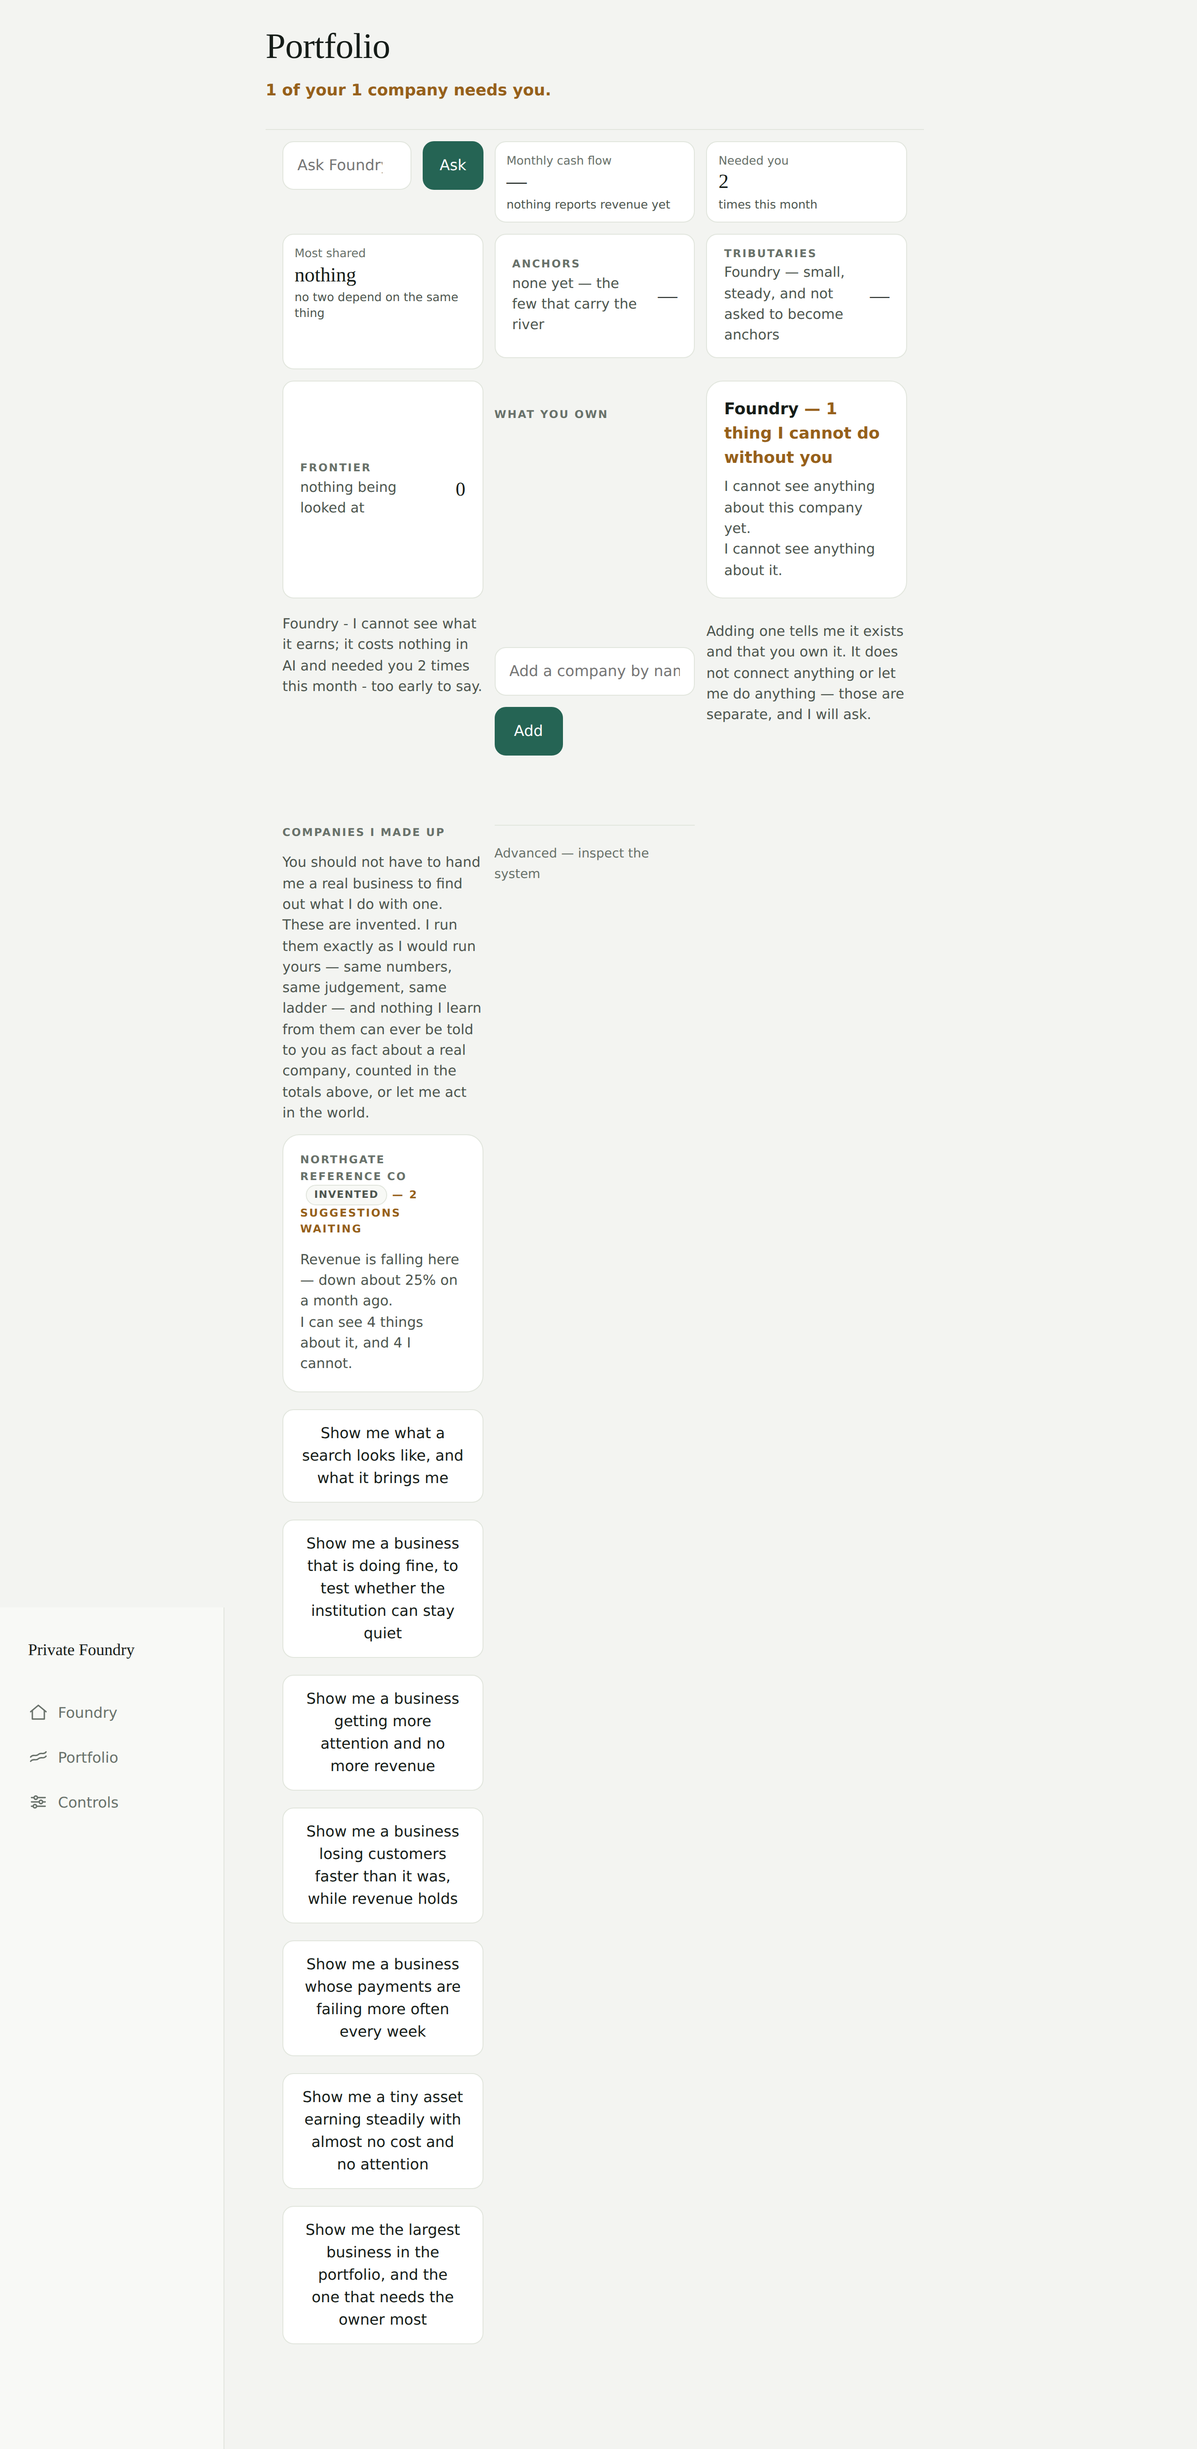
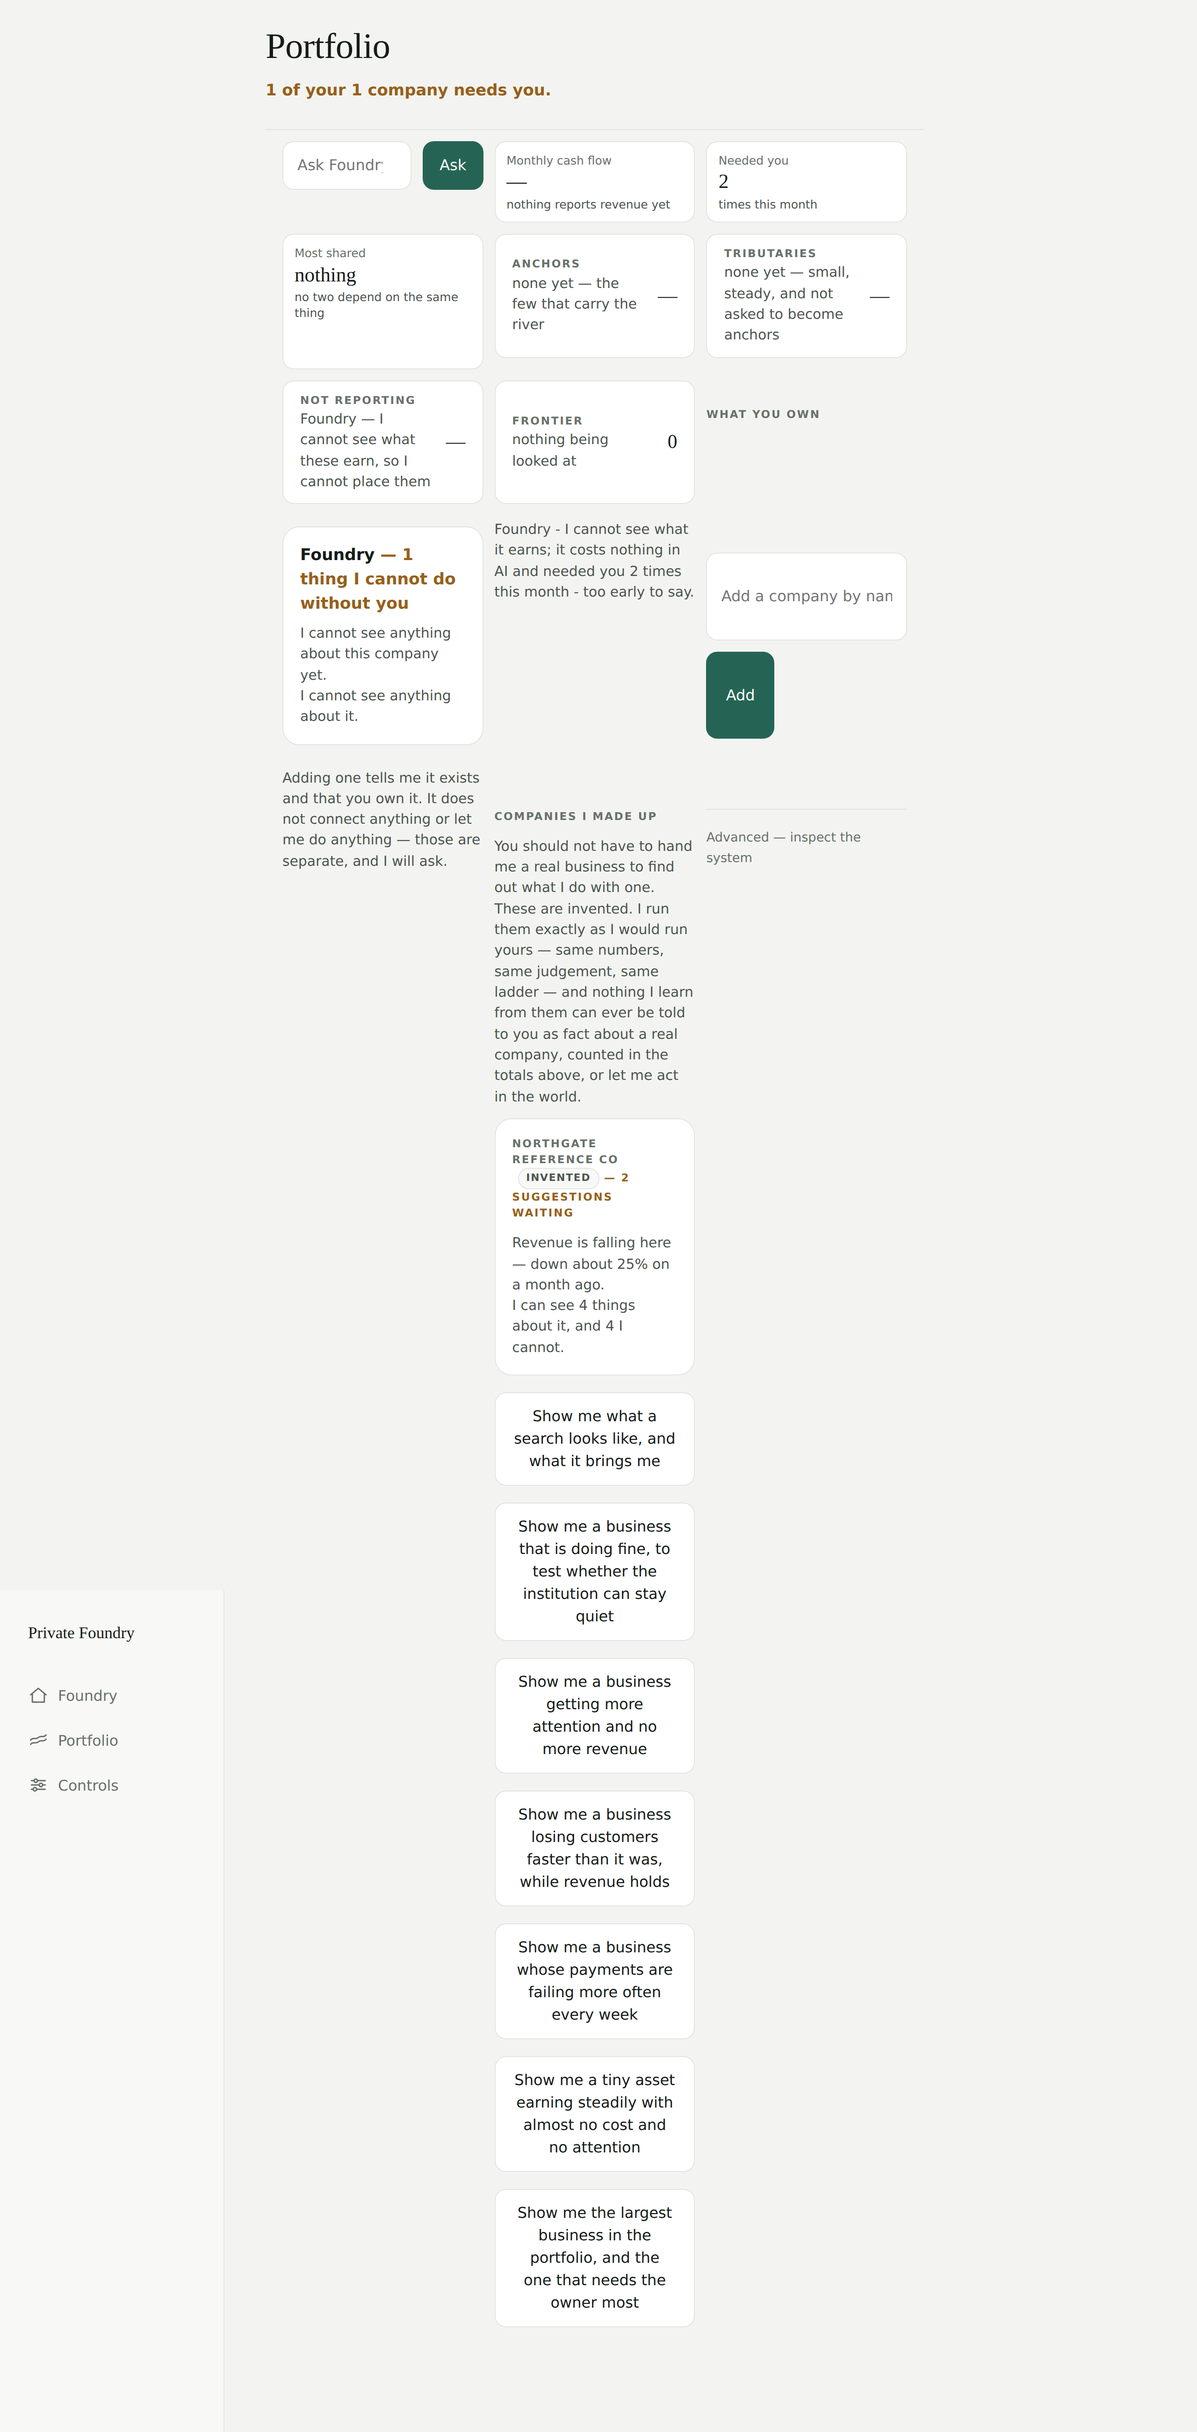
The obvious question, and saying a thing twice [deploy-private]
"HOW ARE THINGS?" ANSWERED "I DON'T KNOW YET." The bar at the bottom of every
page says "Ask Foundry anything", and the first thing anybody types into a box
like that is how things are. The phrase matched the rule for asking about ONE
company, which found none named and gave up — while the rule written for exactly
this question sat three lines below and never ran.

Moving it up broke something else immediately, which is the useful part: his own
mandate says "make my portfolio more resilient", so it contains the word the
portfolio rule matches on, and reading it as a question would have answered him
instead of starting the search he asked for. An instruction to go looking is now
read before any question about what he owns.

NAMING THE SAME COMPANY TWICE MADE TWO COMPANIES. A phone on a slow connection
double-submits, and so does a reload after a submit. He would have ended up with
two identical companies, each holding half of whatever Foundry later learned
about the one business. The same name is the same company now, and he lands on
it either way.

A COMPANY FOUNDRY CANNOT SEE WAS FILED AS A SMALL ONE. The river partitioned on
"revenue or zero", so "I cannot see what this earns" became zero and landed in
Tributaries — which the page describes as small, steady, and not asked to become
anchors. His largest business, on the day it stops reporting, was quietly
recategorised as a minor one. Not knowing is its own answer and has its own
place in the river now.
[…]

diff --git a/src/routes/dashboard/foundry-shell.ts b/src/routes/dashboard/foundry-shell.ts
@@ -848,6 +848,17 @@ const page = (title: string, body: HtmlEscapedString | Promise<HtmlEscapedString
 <meta charset="utf-8" />
 <meta name="viewport" content="width=device-width, initial-scale=1, viewport-fit=cover" />
 <title>${title}</title>
+<!-- ON THE HOME SCREEN, IT IS HIS PRODUCT. The owner's surface was the one
+     place not wired to the installable app: no manifest, no icon, no theme
+     colour — so adding it to a phone gave a browser chrome bar in the wrong
+     colour and a generic icon, while the manifest it would have used described
+     the commercial product and its dark palette. -->
+<link rel="manifest" href="/manifest.json" />
+<link rel="apple-touch-icon" href="/static/icon-192.png" />
+<meta name="apple-mobile-web-app-capable" content="yes" />
+<meta name="apple-mobile-web-app-title" content="Foundry" />
+<meta name="theme-color" content="#F3F4F1" media="(prefers-color-scheme: light)" />
+<meta name="theme-color" content="#0D1310" media="(prefers-color-scheme: dark)" />
 <style>
   /* Two families and one scale: a serif for the sentences that matter, the
      system sans for everything else. Colour carries meaning or it is absent:
@@ -1617,6 +1628,22 @@ function matchQuestion(text: string): string {
   if (/show me the numbers|the numbers|how much|revenue|mrr|metrics|customers|churn/.test(t)) {
     return 'numbers';
   }
+  // AN INSTRUCTION TO GO LOOKING IS READ BEFORE ANY QUESTION ABOUT WHAT HE
+  // OWNS. His mandate says "make my portfolio more resilient", so it contains
+  // the word the portfolio rule matches on — and reading it as a question would
+  // answer him instead of starting the search he asked for.
+  if (/venture|originate|new business|another business|new company|another company|a new saas|micro-?saas|income stream|revenue stream|the river/.test(t)
+    || /stop looking|show me another option|try harder to disprove|higher[- ]ticket|paid acquisition/.test(t)) {
+    return 'venture';
+  }
+  // THE PORTFOLIO QUESTION COMES FIRST, because "how are things?" is both the
+  // most obvious thing he could type and a phrase that matches the
+  // one-company rule below. It matched "how are", asked which company he meant,
+  // found none named, and answered "I don't know yet" — to the question the
+  // whole first screen exists to answer.
+  if (/what do i own|my companies|everything doing|how are things|across (all|my)|portfolio|deteriorat|which company/.test(t)) {
+    return 'portfolio';
+  }
   if (/how is|how are|how'?s |doing|going|healthy|health of/.test(t)) return 'howdoing';
   // CONTEXT FIRST. He is looking at something; "what does this mean" is about
   // that, and he should never have to name it again to be understood.
@@ -1634,13 +1661,6 @@ function matchQuestion(text: string): string {
   // A VENTURE SENTENCE IS NOT A QUESTION. Asking Foundry to go and look, or
   // steering a search that is running, is an instruction — it goes to the
   // mandate, where it binds after he confirms, rather than being answered.
-  if (/venture|originate|new business|another business|new company|another company|a new saas|micro-?saas|income stream|revenue stream|the river/.test(t)
-    || /stop looking|show me another option|try harder to disprove|higher[- ]ticket|paid acquisition/.test(t)) {
-    return 'venture';
-  }
-  if (/what do i own|my companies|everything doing|how are things|across (all|my)|portfolio|deteriorat|which company/.test(t)) {
-    return 'portfolio';
-  }
   if (/what.*(this|that).*(mean|about)|explain (this|that)/.test(t)) return 'this';
   if (/if i (say )?(yes|agree|approve)|what happens if/.test(t)) return 'ifyes';
   if (/what can you change|can you change|are you allowed to change/.test(t)) return 'change';
@@ -2834,6 +2854,24 @@ foundryShellRoutes.post('/foundry/companies', requireInstitutionOwner(), async (
   // fabricated stage, no agents, no competitors — the first version of this
   // product created a company as a side effect of a four-step audit funnel and
   // filled it with guesses.
+  // A DOUBLE TAP IS ONE COMPANY.
+  //
+  // This inserted unconditionally, so two submissions — which is what a phone
+  // on a slow connection produces, and what a page reload after a submit
+  // produces — gave him two identical companies, each with its own history and
+  // its own half of whatever Foundry later learned. Naming the same company
+  // twice is not a new company; it is the same sentence said twice.
+  // A company he already named is the company he meant. Only real ones are
+  // considered: naming a business of his own must never collide with one of the
+  // invented companies, whatever they happen to be called.
+  const already = (await query(
+    `SELECT id FROM products p
+      WHERE p.owner_id = ? AND lower(p.name) = lower(?) AND p.status = 'active'
+        AND p.deleted_at IS NULL AND ${realCompany('p')}
+      ORDER BY p.created_at LIMIT 1`,
+    [String(founder.id), name])).rows[0] as Record<string, unknown> | undefined;
+  if (already) return c.redirect(`/foundry/companies/${String(already.id)}?done=added`);
+
   const { nanoid } = await import('nanoid');
   const id = nanoid();
   await query(

diff --git a/tests/unit/the-most-obvious-question.test.ts b/tests/unit/the-most-obvious-question.test.ts
@@ -1,0 +1,110 @@
+process.env.TURSO_DATABASE_URL = 'file::memory:';
+process.env.ENCRYPTION_KEY = '0'.repeat(64);
+process.env.FOUNDRY_INSTANCE_POSTURE = 'private_owner';
+process.env.FOUNDRY_OWNER_EMAIL = 'owner@example.com';
+
+import { Hono } from 'hono';
+import { beforeAll, describe, expect, it } from 'vitest';
+import { runMigrations } from '../../src/db/migrate.js';
+import { query } from '../../src/db/client.js';
+
+// =============================================================================
+// THE MOST OBVIOUS QUESTION ON THE SCREEN.
+//
+// The bar at the bottom of every page says "Ask Foundry anything". The first
+// thing anybody types into a box like that is "how are things?" — and it
+// answered "I don't know yet", because the phrase matched the rule for asking
+// about ONE company, which then found no company named and gave up. The rule
+// written for exactly this question sat three lines below and never ran.
+// =============================================================================
+
+const OWNER = 'obvious_owner';
+let app: Hono;
+
+beforeAll(async () => {
+  await runMigrations();
+  await query('INSERT INTO founders (id,clerk_user_id,email,name) VALUES (?,?,?,?)',
+    [OWNER, 'clerk_obvious', 'owner@example.com', 'Thomas Norton']);
+  const { foundryShellRoutes } = await import('../../src/routes/dashboard/foundry-shell.js');
+  app = new Hono();
+  app.use('*', async (c, next) => {
+    c.set('founder' as never,
+      { id: OWNER, email: 'owner@example.com', name: 'Thomas Norton' } as never);
+    c.set('csrfToken' as never, 'test' as never);
+    await next();
+  });
+  app.route('/', foundryShellRoutes);
+  for (const name of ['Tidewater', 'Northgate']) {
+    await app.request('/foundry/companies', { method: 'POST',
+      headers: { 'content-type': 'application/x-www-form-urlencoded' },
+      body: new URLSearchParams({ name }).toString() });
+  }
+});
+
+describe('asking how things are', () => {
+  for (const asked of ['How are things?', 'how are things', 'What do I own?',
+    'How is everything doing?']) {
+    it(`"${asked}" gets an answer about the portfolio`, async () => {
+      const body = await (await app.request(
+        `/foundry?q=${encodeURIComponent(asked)}`)).text();
+      expect(body, 'it never says it does not know')
+        .not.toContain("I don't know yet");
+      // It answers about what he owns, by name.
+      expect(body).toMatch(/Tidewater|Northgate|companies/);
+    });
+  }
+
+  it('still answers about one company when he names one', async () => {
+    const body = await (await app.request(
+      '/foundry?q=How is Tidewater doing?')).text();
+    expect(body).toContain('Tidewater');
+  });
+});
+
+// =============================================================================
+// AND TWO MORE THINGS THE SAME REVIEW FOUND, BOTH ABOUT SAYING THE SAME THING
+// TWICE MEANING TWO DIFFERENT THINGS.
+// =============================================================================
+
+describe('naming the same company twice', () => {
+  it('is one company, not two', async () => {
+    // A phone on a slow connection double-submits, and a reload after a submit
+    // does it again. This inserted unconditionally, so he ended up with two
+    // identical companies each holding half of what Foundry later learned.
+    const before = (await query(
+      "SELECT COUNT(*) AS n FROM products WHERE owner_id = ? AND status = 'active'",
+      [OWNER])).rows[0] as Record<string, unknown>;
+    for (let i = 0; i < 3; i += 1) {
+      await app.request('/foundry/companies', { method: 'POST',
+        headers: { 'content-type': 'application/x-www-form-urlencoded' },
+        body: new URLSearchParams({ name: 'Tidewater' }).toString() });
+    }
+    const after = (await query(
+      "SELECT COUNT(*) AS n FROM products WHERE owner_id = ? AND status = 'active'",
+      [OWNER])).rows[0] as Record<string, unknown>;
+    expect(Number(after.n)).toBe(Number(before.n));
+  });
+
+  it('still lands him on that company', async () => {
+    const res = await app.request('/foundry/companies', { method: 'POST',
+      headers: { 'content-type': 'application/x-www-form-urlencoded' },
+      body: new URLSearchParams({ name: 'Tidewater' }).toString() });
+    expect(res.status).toBe(302);
+    expect(String(res.headers.get('location'))).toContain('/foundry/companies/');
+  });
+});
+
+describe('a company whose revenue cannot be seen', () => {
+  it('is not filed as a small one', async () => {
+    // Tributaries are described as "small, steady, and not asked to become
+    // anchors". A company that has stopped reporting is none of those things —
+    // it is a company Foundry cannot see, which is its own answer.
+    const { layersFor } = await import('../../src/services/founder/portfolio.js');
+    const { layers } = await layersFor(OWNER);
+    const tributaries = layers.find((l) => l.name === 'tributaries');
+    expect(tributaries?.companies ?? []).toHaveLength(0);
+    const unseen = layers.find((l) => l.name === 'unseen');
+    expect(unseen?.companies.length).toBeGreaterThan(0);
+    expect(unseen?.what).toContain('cannot see');
+  });
+});

diff --git a/src/public/sw.js b/src/public/sw.js
@@ -75,6 +75,37 @@ self.addEventListener('fetch', (event) => {
   if (request.mode === 'navigate') {
     event.respondWith(
       fetch(request).catch(() => {
+        // THE OWNER'S SURFACE HAS ITS OWN OFFLINE PAGE.
+        //
+        // This worker registers at the root from the commercial layout, and the
+        // owner's footer links to a page that uses that layout — so visiting it
+        // once put this worker in charge of /foundry too. Losing signal on his
+        // own product then showed him the other product's dark stylesheet and
+        // its em-dash, in a typeface and palette that are not his.
+        const url = new URL(request.url);
+        if (url.pathname === '/foundry' || url.pathname.startsWith('/foundry/')) {
+          return new Response(
+            `<!DOCTYPE html><html lang="en"><head><meta charset="utf-8">`
+            + `<meta name="viewport" content="width=device-width,initial-scale=1">`
+            + `<title>Foundry</title><style>`
+            + `:root{color-scheme:light dark}`
+            + `body{margin:0;min-height:100vh;display:flex;align-items:center;`
+            + `justify-content:center;background:#F3F4F1;color:#151C18;`
+            + `font:400 17px/1.5 ui-sans-serif,system-ui,-apple-system,sans-serif}`
+            + `main{max-width:22rem;padding:24px;text-align:left}`
+            + `h1{font-family:"Iowan Old Style",Palatino,Georgia,serif;`
+            + `font-size:1.5rem;font-weight:500;margin:0 0 12px}`
+            + `p{color:#4C554E;margin:0}`
+            + `@media (prefers-color-scheme:dark){body{background:#0D1310;color:#EAEFEA}`
+            + `p{color:#A8B2AA}}`
+            + `</style></head><body><main>`
+            + `<h1>You are offline.</h1>`
+            + `<p>Nothing of yours has changed, and I have not acted on anything. `
+            + `This page will work again when you have a connection.</p>`
+            + `</main></body></html>`,
+            { headers: { 'Content-Type': 'text/html' } }
+          );
+        }
         // On network failure for navigation, serve a minimal offline indicator
         return new Response(
           `<!DOCTYPE html><html lang="en"><head><meta charset="utf-8"><meta name="viewport" content="width=device-width,initial-scale=1"><title>Foundry — Offline</title><link rel="stylesheet" href="/static/styles.css"></head><body><div style="display:flex;align-items:center;justify-content:center;min-height:100vh;flex-direction:column;gap:1rem;"><div style="font-size:3rem;font-weight:800;color:var(--text-dim)">—</div><p style="color:var(--text-muted)">No connection. Foundry will resume when you're back online.</p></div></body></html>`,

diff --git a/src/services/founder/portfolio.ts b/src/services/founder/portfolio.ts
@@ -283,7 +283,7 @@ export async function glanceFor(founderId: string): Promise<Glance> {
 }
 
 export interface Layer {
-  name: 'anchors' | 'tributaries' | 'frontier';
+  name: 'anchors' | 'tributaries' | 'frontier' | 'unseen';
   title: string; what: string;
   companies: Array<{ productId: string; name: string; mrrCents: number | null; posture: string }>;
   cashFlowCents: number;
@@ -316,8 +316,16 @@ export async function layersFor(founderId: string): Promise<{
     productId: String(r.id), name: String(r.name),
     mrrCents: r.mrr_cents == null ? null : Number(r.mrr_cents), posture: String(r.posture),
   }));
-  const anchors = each.filter((c) => (c.mrrCents ?? 0) >= ANCHOR_CENTS);
-  const tributaries = each.filter((c) => (c.mrrCents ?? 0) < ANCHOR_CENTS);
+  // A COMPANY FOUNDRY CANNOT SEE IS NOT A SMALL COMPANY.
+  //
+  // These partitioned on `mrrCents ?? 0`, so "I cannot see what this earns"
+  // became zero and landed in Tributaries — a layer the page describes as
+  // small, steady, and not asked to become anchors. His largest business, on
+  // the day it stops reporting, is filed as a minor one. Not knowing is its own
+  // answer and gets its own place.
+  const anchors = each.filter((c) => c.mrrCents !== null && c.mrrCents >= ANCHOR_CENTS);
+  const tributaries = each.filter((c) => c.mrrCents !== null && c.mrrCents < ANCHOR_CENTS);
+  const unseen = each.filter((c) => c.mrrCents === null);
   const sum = (cs: typeof each): number => cs.reduce((n, c) => n + (c.mrrCents ?? 0), 0);
 
   const frontier = (await query(
@@ -337,6 +345,11 @@ export async function layersFor(founderId: string): Promise<{
       { name: 'tributaries', title: 'Tributaries',
         what: 'small, steady, and not asked to become anchors',
         companies: tributaries, cashFlowCents: sum(tributaries) },
+      ...(unseen.length > 0 ? [{
+        name: 'unseen' as const, title: 'Not reporting',
+        what: 'I cannot see what these earn, so I cannot place them',
+        companies: unseen, cashFlowCents: 0,
+      }] : []),
     ],
     frontier: {
       looking: Number(frontier.looking), awaiting: Number(frontier.awaiting),
